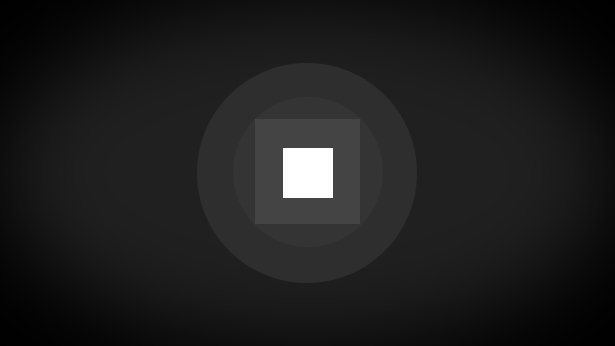
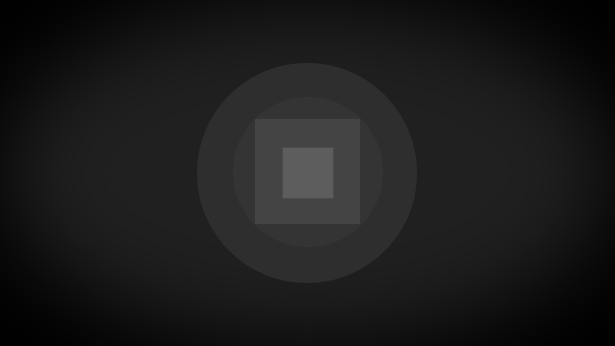
boot screen works fine eventually

Changed region(s): [[0.4325, 0.4046, 0.5561, 0.578]]

diff --git a/animation.js b/animation.js
@@ -33,51 +33,32 @@ export function animateSpriteSheet(canvasId, spriteSheetSrc, spriteWidth, sprite
     };
 };
 
-export function animateImages(canvasId, frameSources, frameDurations, callBack) {
+export function animateImages(canvasId, frameSources, frameDurations, callback) {
     const canvas = document.getElementById(canvasId);
     const ctx = canvas.getContext('2d');
-    const frames = [];
+    
     let currentFrame = 0;
-    let lastFrameTime = 0;
 
-    // Load Images
-    let loadedFrames = 0;
-    frameSources.forEach((src, index) => {
+    function renderFrame() {
+      if (currentFrame < frameSources.length) {
         const img = new Image();
-        img.src = src;
+        img.src = frameSources[currentFrame];
+        
         img.onload = () => {
-            frames[index] = img; // Store the loaded image
-            loadedFrames++;
-            // Start animation once all frames are loaded
-            if (loadedFrames === frameSources.length) {
-                requestAnimationFrame(drawFrame);
-            }
-        };
-    });
-
-    function drawFrame() {
-        const now = Date.now();
-        const deltaTime = now - lastFrameTime;
-
-        // Check if the current frame has reached its duration
-        if (deltaTime > frameDurations[currentFrame]) {
-            ctx.drawImage(frames[currentFrame], 0, 0, canvas.width, canvas.height);
-            // Move to the next frame
+          ctx.clearRect(0, 0, canvas.width, canvas.height);
+          ctx.drawImage(img, 0, 0);
+          
+          // Set timeout for the next frame
+          setTimeout(() => {
             currentFrame++;
-
-            // Check if we have displayed all frames
-            if (currentFrame < frames.length) {
-                lastFrameTime = now; // Update the lastFrameTime only if we have more frames to show
-                console.log(`Current frame is: ${currentFrame}`); // Should log 0-based index
-            } else {
-                // Animation complete, call callBack if provided
-                if (callBack) {
-                    callBack();
-                }
-                return; // Stop the animation
-            }
-        }
-
-        requestAnimationFrame(drawFrame); // Continue animating if there are more frames
+            renderFrame();
+          }, frameDurations[currentFrame]);
+          console.log(`current frame: ${currentFrame + 1}`);
+        };
+      } else {
+        // If we have rendered all frames, call the callback
+        callback();
+      }
     }
-}
+    renderFrame();
+  }

diff --git a/initialize.js b/initialize.js
@@ -105,9 +105,10 @@ export function bootScreen() {
     "./assets/boot/boot4.jpg",
     "./assets/boot/boot5.jpg",
     "./assets/boot/boot6.jpg",
-    "./assets/boot/boot6.jpg",
+    "./assets/boot/boot7.jpg",
+    "./assets/boot/boot7.jpg",
   ];
-  const frameDurations = [100, 1400, 1200, 900, 500, 300, 1000];
+  const frameDurations = [1000, 1200, 1200, 500, 500, 150, 150,1000];
 
   function clear() {
     globVar.ctx.clearRect(0, 0, globVar.canvasWidth, globVar.canvasHeight);
